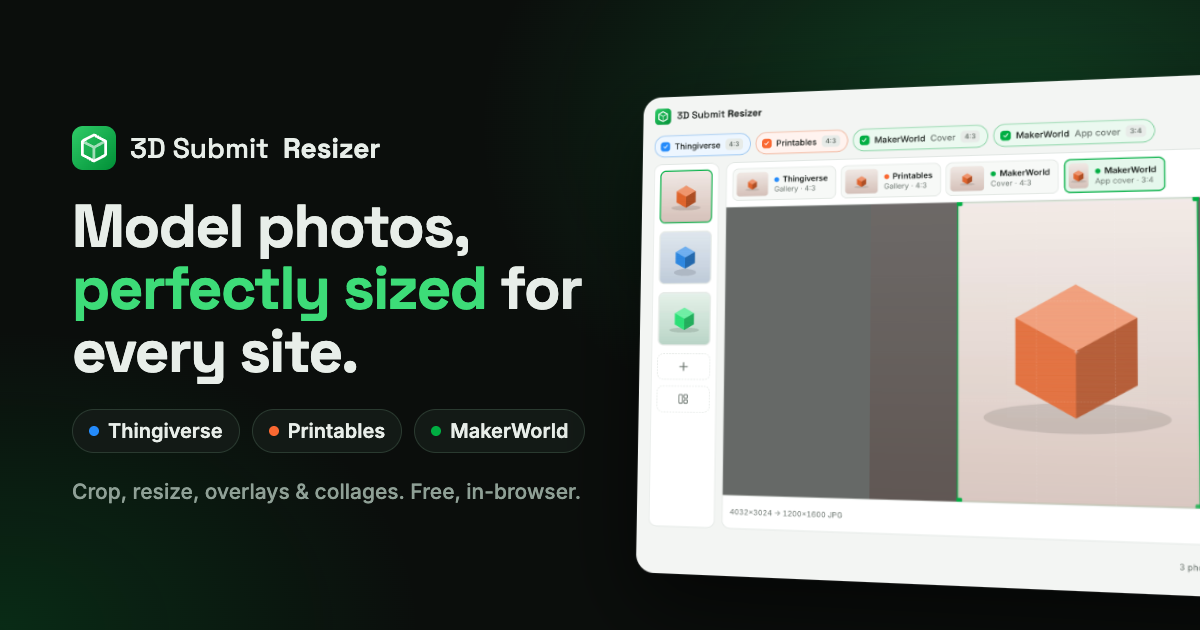
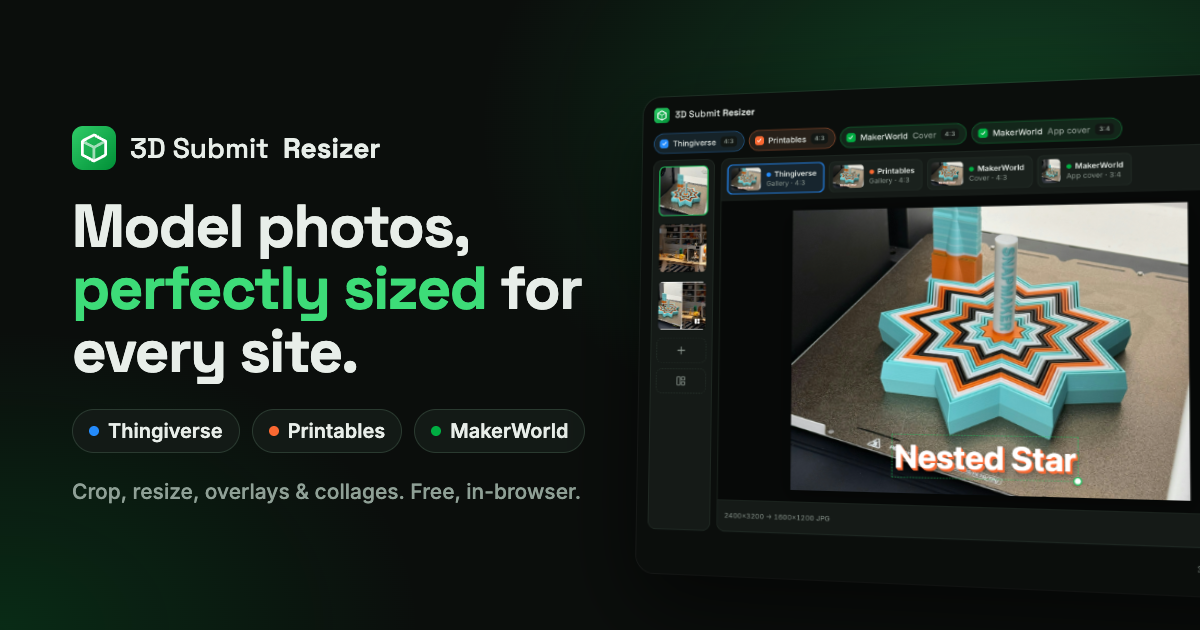
New dark-mode screenshot with a real 3D print photo; refresh share image

diff --git a/README.md b/README.md
@@ -30,3 +30,5 @@ python3 -m http.server
 Every push to `main` deploys to GitHub Pages through `.github/workflows/deploy.yml`.
 
 Feature requests: [issues](https://github.com/theanam/3dsubmit-resizer/issues) · Feedback: anam.ahmed.a@gmail.com
+
+Screenshot photos by [Snapmaker 3D Printer](https://unsplash.com/@snapmaker_official) on [Unsplash](https://unsplash.com/photos/3d-printed-star-shaped-object-with-a-cylindrical-piece-q9EhSGklJGY).
